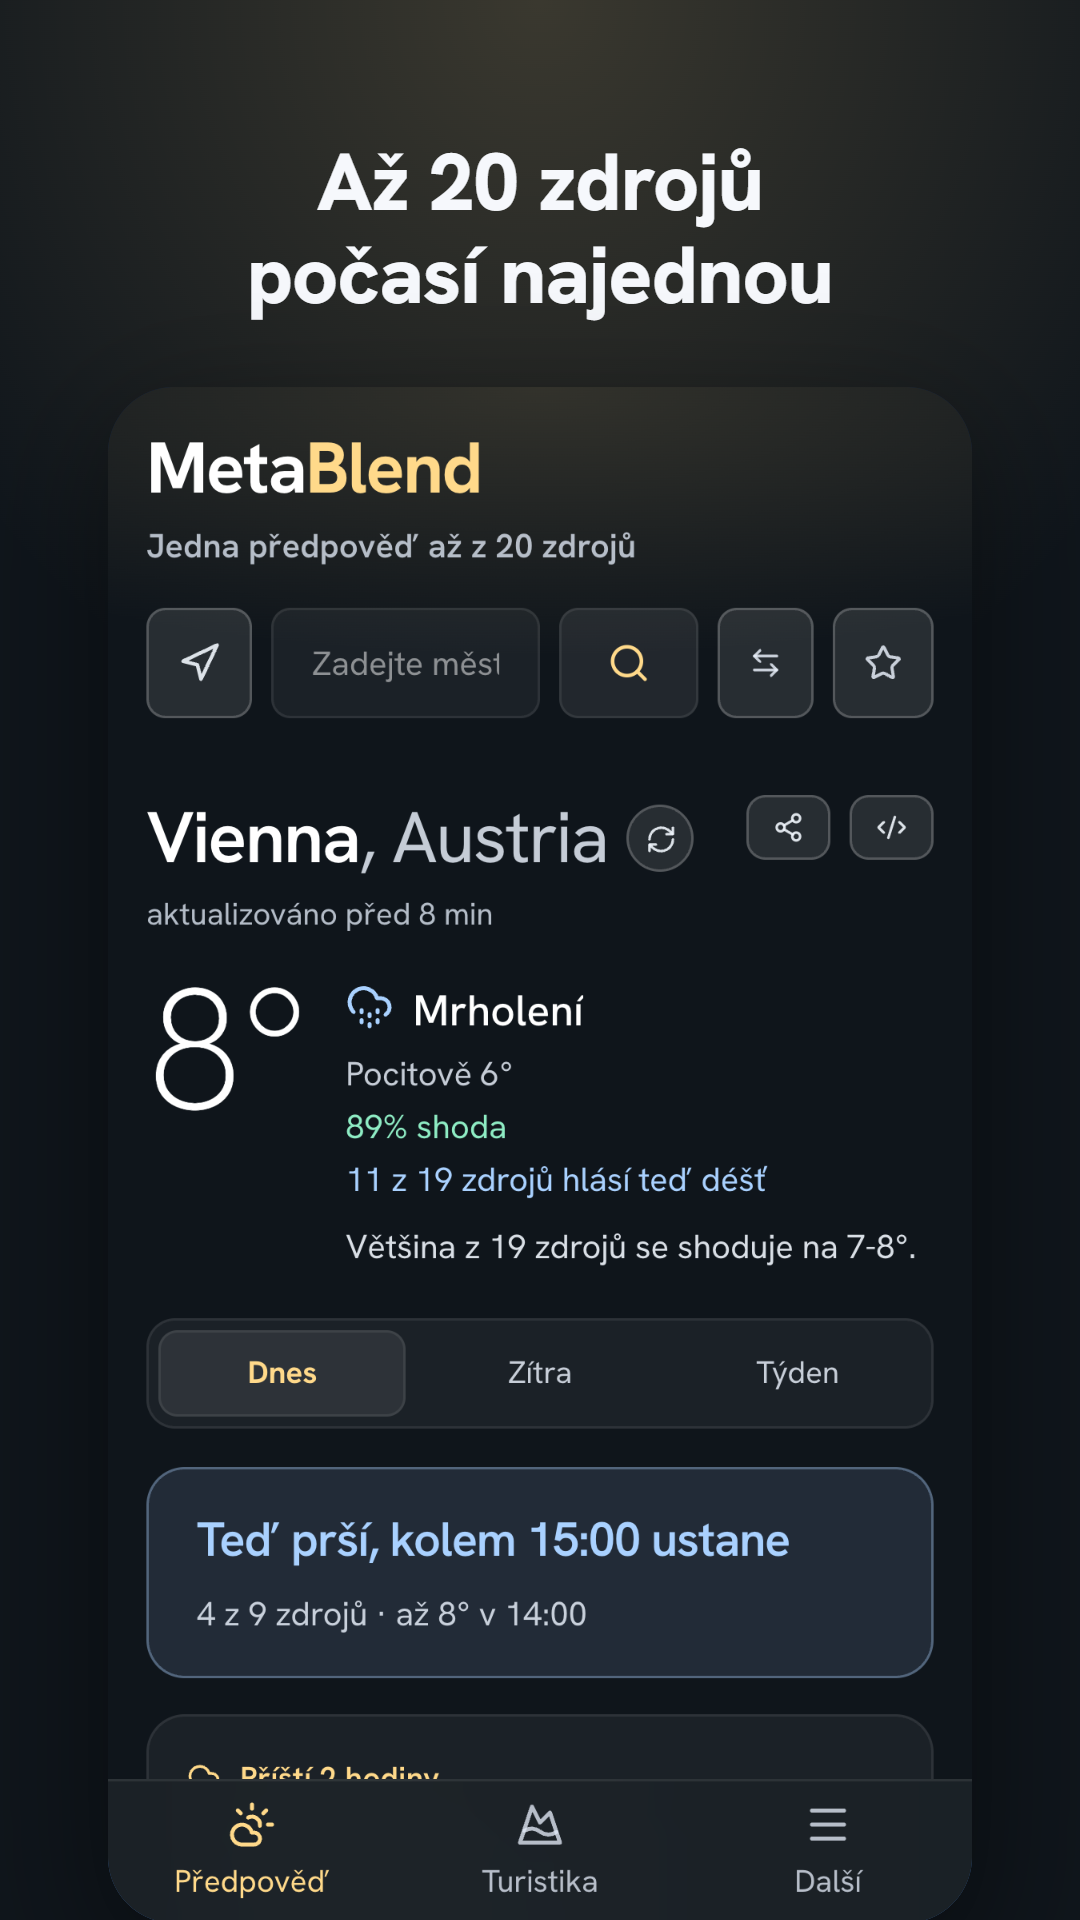
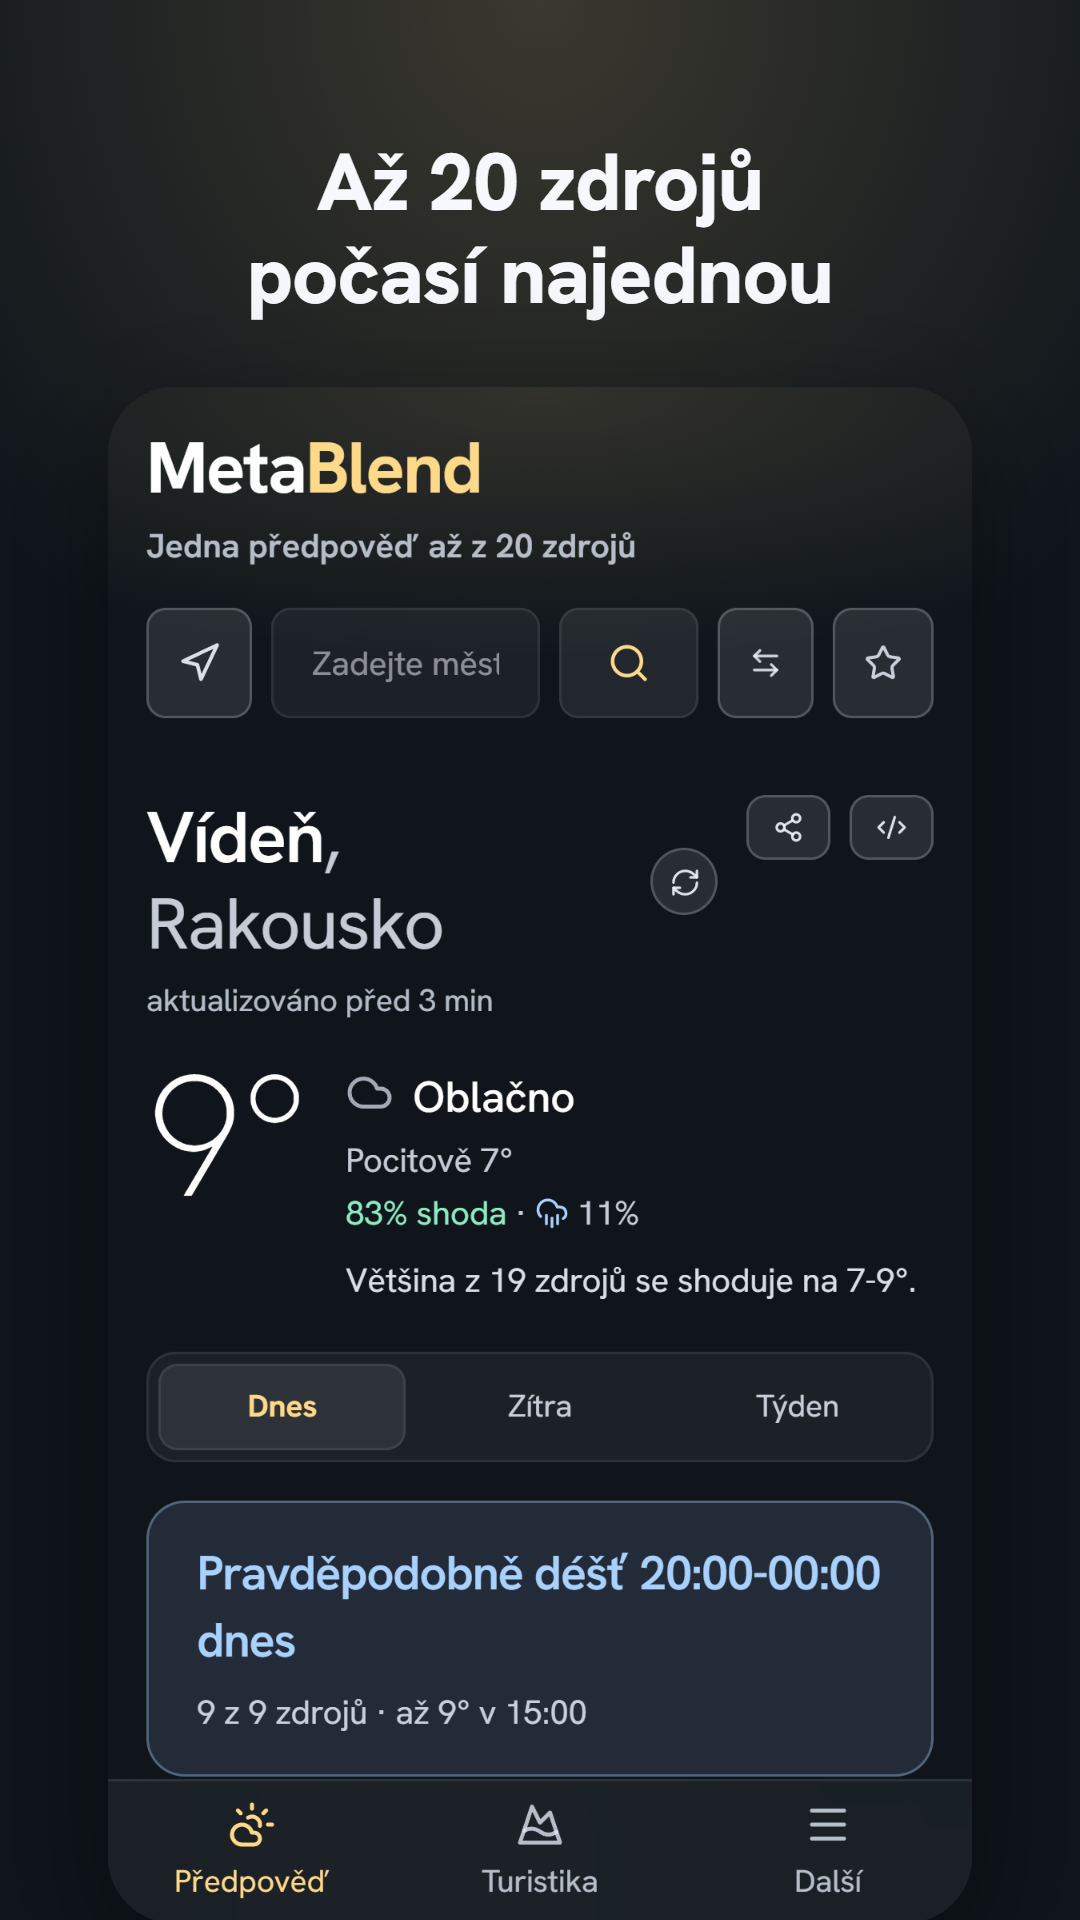
Store captions and place names (owner 2026-11-12): Korean captions break only at their "|" marks like Japanese and Chinese, with the space kept between parts (no more "195개 / 산"); German screen 2 "Die Woche voraus, und wo sich die Quellen einig sind". Google Play screens 1 and 2 taken again in the 1

Changed region(s): [[0.1222, 0.4062, 0.8861, 0.9375]]

diff --git a/CHANGELOG.md b/CHANGELOG.md
@@ -40,7 +40,7 @@ All notable changes to MetaBlend. Format loosely follows
 - The press kit is one ZIP (8.7 MB, 25 files): the wordmark and the MB mark for dark and light backgrounds as SVG and PNG, the app icon in Slate as SVG and 1024 px PNG, the five English store screenshots for each store with the Slate frame, the Google Play feature graphic, three screenshots without captions (the Vienna forecast and the Schafberg route Purtschellersteig as the app shows them, the Schafberg summit page as the website shows it, with its "Live with all models" button and "As of" line), and a README in English and German.
 - `node scripts/brand/press-kit.mjs` builds it into `public/press/`. The wordmark is drawn from Hanken Grotesk 700 (`scripts/brand/wordmark.mjs`); the ZIP is written by `scripts/lib/zip.mjs` (node:zlib, no new dependency). The three screenshots come from metablend.app with the analytics blocked; the script refuses "No favourable" or a summit tab past Today, and a route with no favourable start today shows tomorrow's. It also refuses a shot that shows a dash or a safety word anywhere on screen, and `KEEP=2-summit,3-route` keeps chosen shots from the last kit (read back with `unzip` in `scripts/lib/zip.mjs`) while a page they show is about to change.
 - Tests: the press texts in both languages pass the store wording rules (no dashes, no safety word, no reliability claim, no bargain word); the ZIP reads back byte for byte with its CRCs; the files the page shows exist and the SVGs hold no broken path data.
-- Store screenshots 3 to 5 for Google Play, all 13 languages, taken again (2026-11-12) after the summit note lost its safety words: screen 4 is now Schafberg with tomorrow's summit window, screen 5 its route Purtschellersteig with tomorrow's start, as the app shows them with all 9 models. `scripts/store-shots.mjs` takes a summit window tomorrow when today has none (screen 4 on the Tomorrow tab), and two new settings: `PEAK=<candidate>` keeps every run on the same peak, `DEVICE=ios|android` takes one store's set (the iPhone set in SF Pro needs a Mac). The iPhone set follows from a Mac.
+- Store screenshots for Google Play taken again (2026-11-12): screens 1 and 2 in the 12 languages besides English, which now show Vienna in the reader's language ("Wien, Österreich", "Vienne, Autriche"; Chinese shows the traditional 維也納, a naming bug of its own); captions: Korean breaks only at its marks like Japanese and Chinese (no more "195개 / 산"), German screen 2 has a comma before "und". Screens 3 to 5 in all 13 languages after the summit note lost its safety words: screen 4 is now Schafberg with tomorrow's summit window, screen 5 its route Purtschellersteig with tomorrow's start, as the app shows them with all 9 models. `scripts/store-shots.mjs` takes a summit window tomorrow when today has none (screen 4 on the Tomorrow tab), and two new settings: `PEAK=<candidate>` keeps every run on the same peak, `DEVICE=ios|android` takes one store's set (the iPhone set in SF Pro needs a Mac). The iPhone set follows from a Mac.
 
 ### Changed: the privacy notice says what ending notifications does to the stored data
 - Privacy notice, "Notifications (app)", all 13 languages (the German is the original): turning notifications off in the app deletes the data at once; turning them off only in the phone's settings deletes it at the next app start; on Android 12 and older the app cannot detect that, so the data stays until notifications are also turned off in the app or the 90 days have passed. Before, the notice only said that turning them off stops them.
